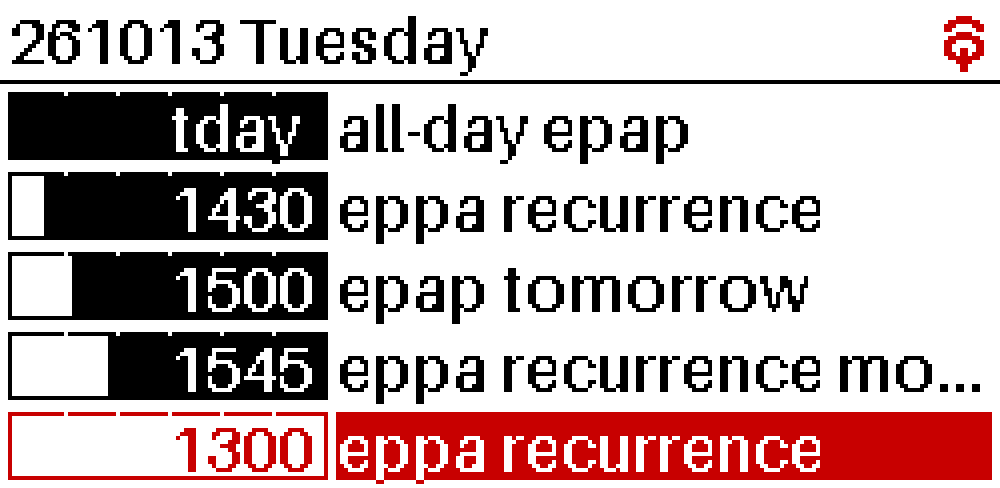
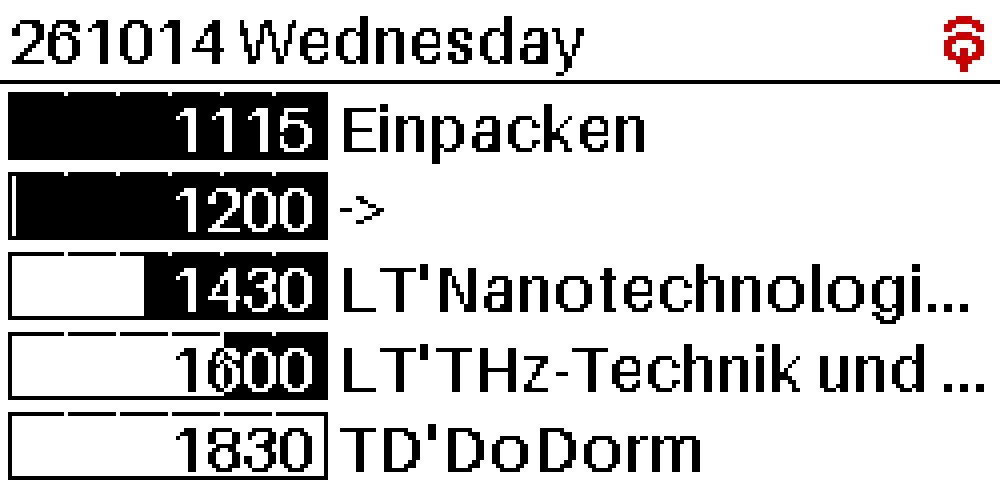
feat: exclude dismissed events

diff --git a/calendar-dashboard/display_demo.py b/calendar-dashboard/display_demo.py
@@ -27,8 +27,8 @@ WIDTH, HEIGHT = 250, 122      # landscape; matches set_rotation(270) on the Pi
 # Files and/or folders to read. Absolute paths work from anywhere.
 ICS_SOURCES = [
     pathlib.Path("/mnt/data/Documents/StVau_001/4 Vault/Coding/Stedule/Stedule Data/main.ics"),
-    # pathlib.Path("/mnt/data/Documents/other-calendars"),   # a whole folder
-    # pathlib.Path("~/Sync/calendar"),                        # ~ = your home folder
+    #pathlib.Path("/mnt/data/Documents/StVau_001/4 Vault/Coding/Stedule/Stedule Data Test/calendar2.ics"),
+    #pathlib.Path("/mnt/data/Documents/StVau_001/4 Vault/Coding/Stedule/Stedule Data Test"), # a whole folder
 ]
 
 HOURS = 24          # how many hours ahead to show regular events
@@ -105,6 +105,8 @@ def categories_of(ev):
 def is_important(ev):
     return "important" in categories_of(ev)
 
+def is_irrelevant(ev):
+    return "dismissed" in categories_of(ev)
 
 def is_visible(ev, now):
     """Events that are already running (start <= now) always pass, because
@@ -127,6 +129,8 @@ def select_events(events, now):
     free = MAX_LINES - sum(must)
     chosen = []
     for ev, m in zip(events, must):
+        if is_irrelevant(ev):
+            continue
         if m:
             chosen.append(ev)
         elif free > 0:
@@ -456,7 +460,7 @@ def main():
     print(f"Reading {len(files)} ICS file(s)")
 
     now = datetime.datetime.now().astimezone()      # timezone-aware local time
-    #now = datetime.datetime.fromisoformat("2026-10-12T17:00:00.000Z")      # debug
+    now = datetime.datetime.fromisoformat("2026-10-14T11:57:30.000+0200")      # debug
     events = load_events(files, now)
 
     header = now.strftime("%y%m%d %A")
